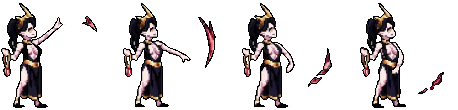
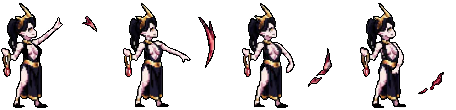
보스 번개스킬 판정 수정

diff --git a/final_boss.py b/final_boss.py
@@ -35,7 +35,7 @@ BOSS_ANIMATION_DATA = {
              (591, 0, 57, 111), (700, 0, 57, 111)],
     'Walk': [(0, 0, 70, 114), (122, 0, 70, 114), (242, 0, 70, 114), (363, 0, 70, 114), (477, 0, 70, 114),
              (597, 0, 70, 114), (707, 0, 70, 114), (831, 0, 70, 114)],
-    'Attack': [(0, 0, 100, 110), (122, 0, 100, 110),(241, 0, 100, 110),(357, 0, 100, 110)],
+    'Attack': [(0, 0, 100, 110), (120, 0, 100, 110),(240, 0, 100, 110),(357, 0, 100, 110)],
     'Hurt': [(0, 0, 74, 106), (114, 0, 74, 106), (236, 0, 74, 106)],
     'Dead': [(0, 0, 53, 102), (124, 0, 51, 102), (239, 0, 69, 102), (361, 0, 113, 102), (495, 0, 123, 102)],
     'Action': [(0, 0, 43, 109), (125, 0, 46, 109), (242, 0, 110, 109), (376, 0, 126, 109), (519, 0, 145, 109),
@@ -58,9 +58,9 @@ class BossIdle:
             self.frames)
         dist_to_player = abs(self.boss.x - self.boss.girl.x)
 
-        if dist_to_player < 200:
+        if dist_to_player < 100:
             self.boss.state_machine.handle_state_event(('PLAYER_IN_ATTACK_RANGE', None))
-        elif dist_to_player < 1000:
+        elif dist_to_player < 800:
             self.boss.state_machine.handle_state_event(('PLAYER_IN_SIGHT_RANGE', None))
 
     def exit(self, e):
@@ -92,7 +92,8 @@ class BossWalk:
 
     def draw(self): self.boss.draw_image(self.image, self.frames)
 
-    def get_bb(self): return self.boss.get_bb_rect()
+    def get_bb(self):
+        return self.boss.x - 25, self.boss.y - 140, self.boss.x + 65, self.boss.y + 80
 
 
 class BossAttack:
@@ -117,8 +118,7 @@ class BossAttack:
         self.boss.draw_image(self.image, self.frames)
 
     def get_bb(self):
-        l, b, r, t = self.boss.get_bb_rect()
-        return l - 50, b, r + 50, t  # 공격 범위 확장
+        return self.boss.x - 100, self.boss.y - 140, self.boss.x + 100, self.boss.y + 80
 
 
 class BossHurt:
@@ -142,7 +142,7 @@ class BossHurt:
         self.boss.draw_image(self.image, self.frames)
 
     def get_bb(self):
-        return self.boss.get_bb_rect()
+        return self.boss.x - 50, self.boss.y - 140, self.boss.x + 50, self.boss.y + 80
 
 
 class BossDead:
@@ -230,7 +230,7 @@ class FinalBoss:
             self.dir = 0
 
         dist_abs = abs(dist)
-        if dist_abs < 200:
+        if dist_abs < 100:
             self.state_machine.handle_state_event(('PLAYER_IN_ATTACK_RANGE', None))
         elif dist_abs > 1200:
             self.state_machine.handle_state_event(('PLAYER_OUT_OF_RANGE', None))

diff --git a/zombie_boss.py b/zombie_boss.py
@@ -9,7 +9,6 @@ from coin import Coin
 from food import Food
 from poison import Poison
 
-# 보스 이동 속도 및 설정
 PIXEL_PER_METER = (10.0 / 0.3)
 RUN_SPEED_KMPH = 10.0
 RUN_SPEED_MPM = (RUN_SPEED_KMPH * 1000.0 / 60.0)
@@ -168,13 +167,6 @@ class BossAttack:
         else:
             return l - 20, b, r - 20, t
 
-
-# zombie_boss.py 상단에 import 추가
-from poison import Poison
-
-
-# ... (기존 코드 생략) ...
-
 class BossSkill:
     def __init__(self, boss):
         self.boss = boss
@@ -191,7 +183,6 @@ class BossSkill:
     def do(self):
         self.boss.frame = (self.boss.frame + FRAMES_PER_ACTION * ACTION_PER_TIME * game_framework.frame_time)
 
-        # 애니메이션 중간쯤(예: 프레임 3)에 독 생성
         if int(self.boss.frame) == 3 and not self.has_spawned:
             self.spawn_poison()
             self.has_spawned = True

diff --git a/lightning.py b/lightning.py
@@ -54,7 +54,8 @@ class Lightning:
 
     def apply_damage_to_enemies_in_range(self):
         for o in game_world.all_objects():
-            if ('Enemy' in o.__class__.__name__ or 'Zombie' in o.__class__.__name__) and o not in self.hit_enemies:
+            if (('Enemy' in o.__class__.__name__ or 'Zombie' in o.__class__.__name__ or 'Boss' in o.__class__.__name__)
+                    and o not in self.hit_enemies):
                 if game_world.collide(self, o):
                     if o.state_machine.cur_state == o.DEAD:
                         continue

diff --git a/stage3_mode.py b/stage3_mode.py
@@ -56,12 +56,12 @@ def init():
     server.girl.bg_scrolling = True
 
     girl = server.girl
-    girl.x = 100  # 시작 위치 조정
+    girl.x =800
     girl.ground_y = 150
     girl.y = girl.ground_y
 
     game_world.add_object(server.girl, 4)
-    # 기존 충돌 체크 유지
+
     game_world.add_collision_pair('girl:enemy', girl, None)
     game_world.add_collision_pair('fire:girl', None, girl)
     game_world.add_collision_pair('girl:coin', girl, None)
